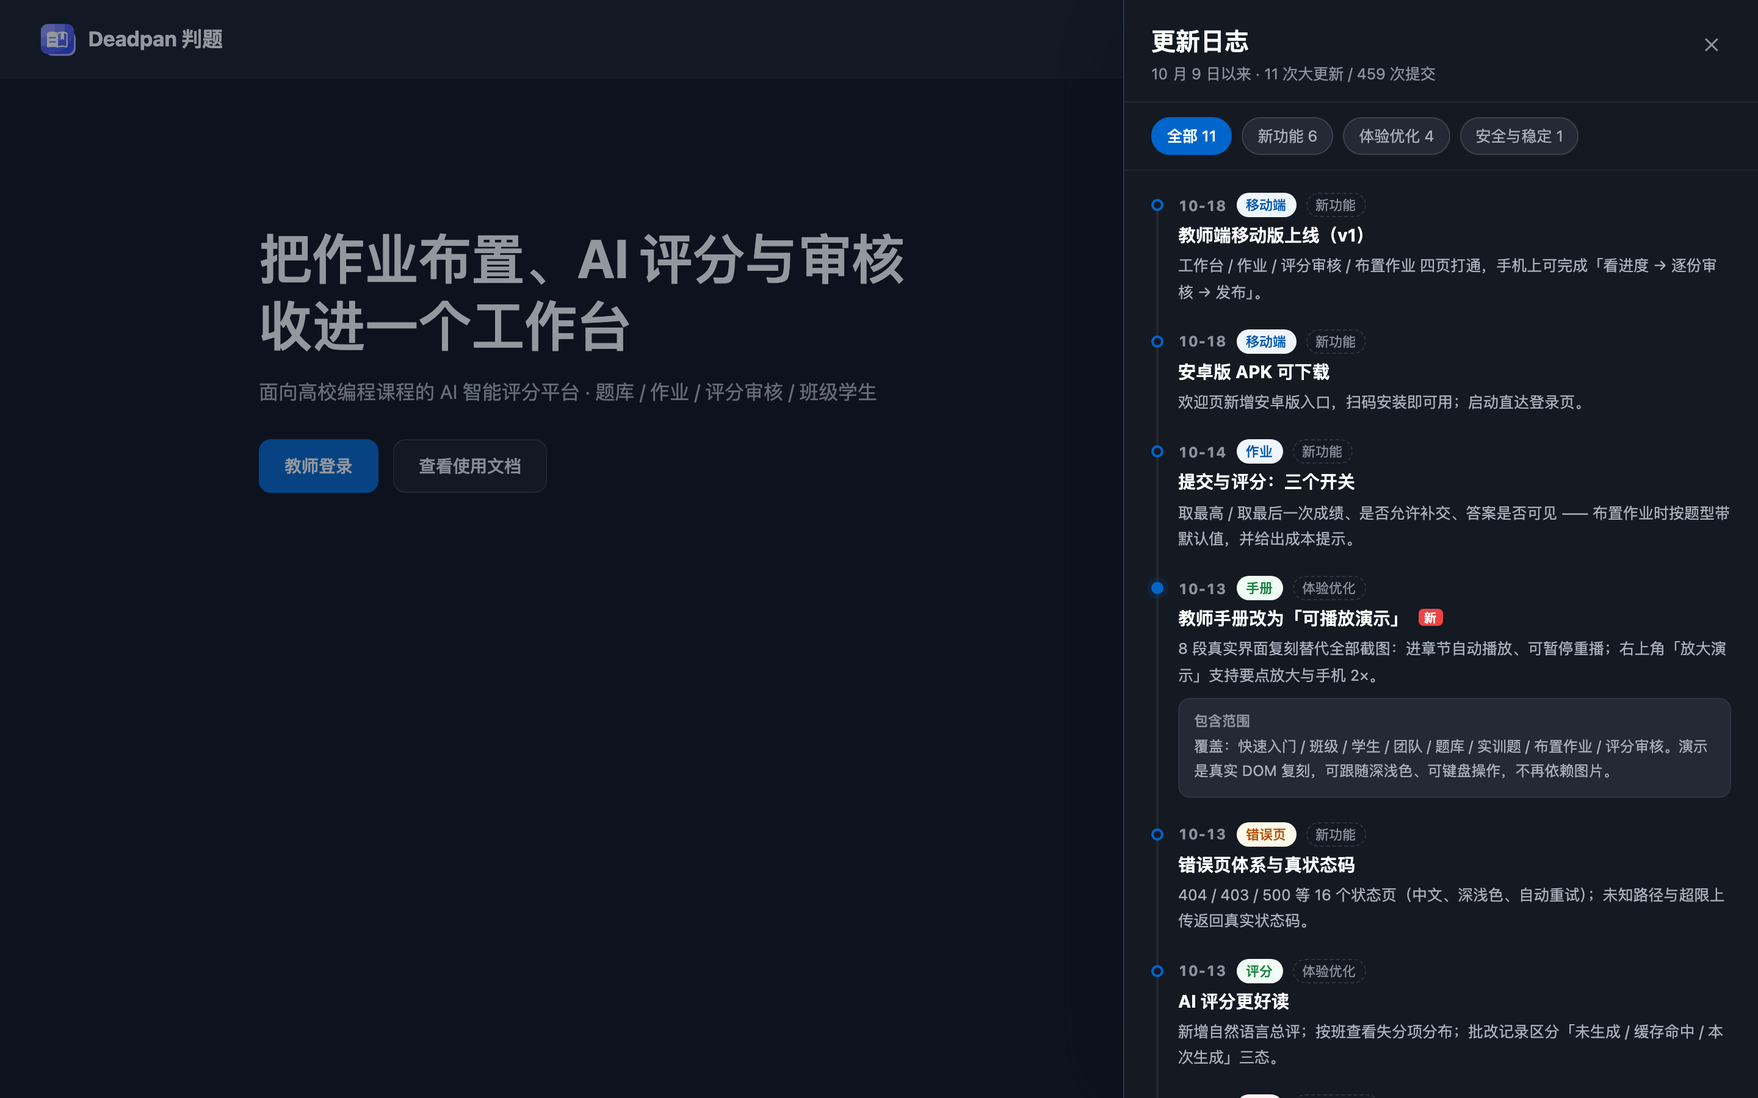
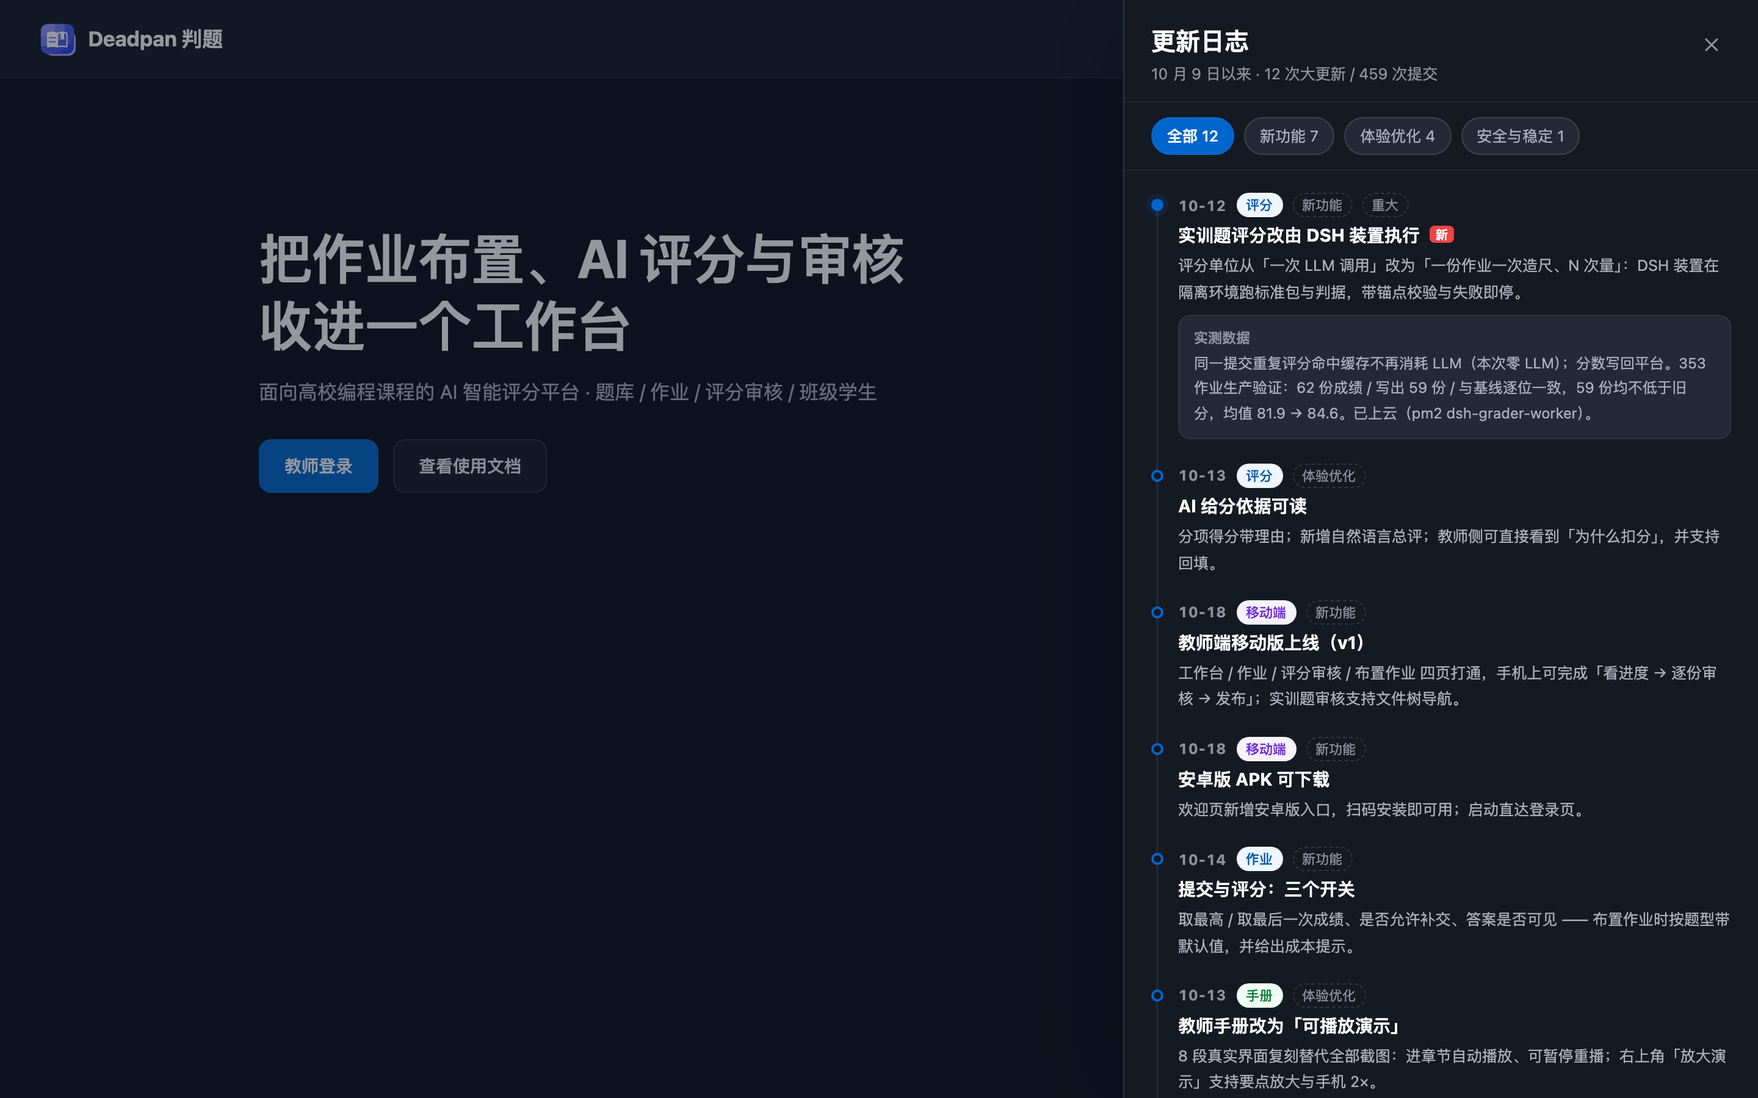
docs(ui): 更新日志补入 DSH 装置评分（第一版遗漏，用户指出后复查）\n\n新增置顶条目：实训题评分改由 DSH 装置执行 —— 评分单位从「一次 LLM 调用」改为「一份作业一次造尺、\nN 次量」，隔离环境跑标准包与判据、锚点校验、失败即停；重复评分命中缓存不再消耗 LLM，分数写回平台。\n实测数字（来自 11b2486/0689224/9d8c6fd）：353 作业 62 份成绩 / 写出 59 份 / 与基线逐位一致 /\n59 份均不低于旧分 / 均值 81.9→84.6；已上云（pm2 dsh-grader-worker）。\n同时补充「AI 给分依据可读」条目，总数

Changed region(s): [[0.6562, 0.0622, 1.0, 1.0]]

diff --git a/docs/ui-redesign/changelog/mock-dark.html b/docs/ui-redesign/changelog/mock-dark.html
@@ -491,6 +491,7 @@ body { margin: 0; font-family: -apple-system, BlinkMacSystemFont, "PingFang SC",
 .pill--ok { background: #f0fdf4; color: #15803d; }
 .pill--warn { background: #fffbeb; color: #b45309; }
 .pill--danger { background: #fef2f2; color: #b91c1c; }
+.pill--purple { background: #f5f3ff; color: #6d28d9; }
 .tag { font-size: 11px; color: var(--text-tertiary); border: 1px dashed var(--border-default); border-radius: 999px; padding: 1px 7px; }
 .new { margin-left: 8px; font-size: 10px; font-weight: 700; color: #fff; background: #ef4444; border-radius: 4px; padding: 1px 5px; vertical-align: 2px; }
 .item h4 { margin: 0 0 4px; font-size: 14.5px; color: var(--text-strong); line-height: 1.4; }
@@ -527,22 +528,36 @@ body { margin: 0; font-family: -apple-system, BlinkMacSystemFont, "PingFang SC",
   <div class="mask"></div>
   <aside class="drawer">
     <header class="dhead">
-      <div><h3>更新日志</h3><p>10 月 9 日以来 · 11 次大更新 / 459 次提交</p></div>
+      <div><h3>更新日志</h3><p>10 月 9 日以来 · 12 次大更新 / 459 次提交</p></div>
       <button class="close" aria-label="关闭">✕</button>
     </header>
-    <div class="filters"><span class="chip on">全部 11</span><span class="chip">新功能 6</span><span class="chip">体验优化 4</span><span class="chip">安全与稳定 1</span></div>
+    <div class="filters"><span class="chip on">全部 12</span><span class="chip">新功能 7</span><span class="chip">体验优化 4</span><span class="chip">安全与稳定 1</span></div>
     <div class="listwrap">
       <ol class="timeline">
+    <li class="item is-hot">
+      <span class="dot"></span>
+      <div class="meta"><b>10-12</b><span class="pill pill--brand">评分</span><span class="tag">新功能</span><span class="tag">重大</span></div>
+      <h4>实训题评分改由 DSH 装置执行<span class="new">新</span></h4>
+      <p>评分单位从「一次 LLM 调用」改为「一份作业一次造尺、N 次量」：DSH 装置在隔离环境跑标准包与判据，带锚点校验与失败即停。</p>
+      <div class="detail"><b>实测数据</b><p>同一提交重复评分命中缓存不再消耗 LLM（本次零 LLM）；分数写回平台。353 作业生产验证：62 份成绩 / 写出 59 份 / 与基线逐位一致，59 份均不低于旧分，均值 81.9 → 84.6。已上云（pm2 dsh-grader-worker）。</p></div>
+    </li>
     <li class="item">
       <span class="dot"></span>
-      <div class="meta"><b>10-18</b><span class="pill pill--brand">移动端</span><span class="tag">新功能</span></div>
-      <h4>教师端移动版上线（v1）</h4>
-      <p>工作台 / 作业 / 评分审核 / 布置作业 四页打通，手机上可完成「看进度 → 逐份审核 → 发布」。</p>
+      <div class="meta"><b>10-13</b><span class="pill pill--brand">评分</span><span class="tag">体验优化</span></div>
+      <h4>AI 给分依据可读</h4>
+      <p>分项得分带理由；新增自然语言总评；教师侧可直接看到「为什么扣分」，并支持回填。</p>
       
     </li>
     <li class="item">
       <span class="dot"></span>
-      <div class="meta"><b>10-18</b><span class="pill pill--brand">移动端</span><span class="tag">新功能</span></div>
+      <div class="meta"><b>10-18</b><span class="pill pill--purple">移动端</span><span class="tag">新功能</span></div>
+      <h4>教师端移动版上线（v1）</h4>
+      <p>工作台 / 作业 / 评分审核 / 布置作业 四页打通，手机上可完成「看进度 → 逐份审核 → 发布」；实训题审核支持文件树导航。</p>
+      
+    </li>
+    <li class="item">
+      <span class="dot"></span>
+      <div class="meta"><b>10-18</b><span class="pill pill--purple">移动端</span><span class="tag">新功能</span></div>
       <h4>安卓版 APK 可下载</h4>
       <p>欢迎页新增安卓版入口，扫码安装即可用；启动直达登录页。</p>
       
@@ -554,25 +569,18 @@ body { margin: 0; font-family: -apple-system, BlinkMacSystemFont, "PingFang SC",
       <p>取最高 / 取最后一次成绩、是否允许补交、答案是否可见 —— 布置作业时按题型带默认值，并给出成本提示。</p>
       
     </li>
-    <li class="item is-hot">
+    <li class="item">
       <span class="dot"></span>
       <div class="meta"><b>10-13</b><span class="pill pill--ok">手册</span><span class="tag">体验优化</span></div>
-      <h4>教师手册改为「可播放演示」<span class="new">新</span></h4>
+      <h4>教师手册改为「可播放演示」</h4>
       <p>8 段真实界面复刻替代全部截图：进章节自动播放、可暂停重播；右上角「放大演示」支持要点放大与手机 2×。</p>
-      <div class="detail"><b>包含范围</b><p>覆盖：快速入门 / 班级 / 学生 / 团队 / 题库 / 实训题 / 布置作业 / 评分审核。演示是真实 DOM 复刻，可跟随深浅色、可键盘操作，不再依赖图片。</p></div>
+      
     </li>
     <li class="item">
       <span class="dot"></span>
       <div class="meta"><b>10-13</b><span class="pill pill--warn">错误页</span><span class="tag">新功能</span></div>
       <h4>错误页体系与真状态码</h4>
       <p>404 / 403 / 500 等 16 个状态页（中文、深浅色、自动重试）；未知路径与超限上传返回真实状态码。</p>
-      
-    </li>
-    <li class="item">
-      <span class="dot"></span>
-      <div class="meta"><b>10-13</b><span class="pill pill--ok">评分</span><span class="tag">体验优化</span></div>
-      <h4>AI 评分更好读</h4>
-      <p>新增自然语言总评；按班查看失分项分布；批改记录区分「未生成 / 缓存命中 / 本次生成」三态。</p>
       
     </li>
     <li class="item">

diff --git a/docs/ui-redesign/changelog/mock-light.html b/docs/ui-redesign/changelog/mock-light.html
@@ -491,6 +491,7 @@ body { margin: 0; font-family: -apple-system, BlinkMacSystemFont, "PingFang SC",
 .pill--ok { background: #f0fdf4; color: #15803d; }
 .pill--warn { background: #fffbeb; color: #b45309; }
 .pill--danger { background: #fef2f2; color: #b91c1c; }
+.pill--purple { background: #f5f3ff; color: #6d28d9; }
 .tag { font-size: 11px; color: var(--text-tertiary); border: 1px dashed var(--border-default); border-radius: 999px; padding: 1px 7px; }
 .new { margin-left: 8px; font-size: 10px; font-weight: 700; color: #fff; background: #ef4444; border-radius: 4px; padding: 1px 5px; vertical-align: 2px; }
 .item h4 { margin: 0 0 4px; font-size: 14.5px; color: var(--text-strong); line-height: 1.4; }
@@ -527,22 +528,36 @@ body { margin: 0; font-family: -apple-system, BlinkMacSystemFont, "PingFang SC",
   <div class="mask"></div>
   <aside class="drawer">
     <header class="dhead">
-      <div><h3>更新日志</h3><p>10 月 9 日以来 · 11 次大更新 / 459 次提交</p></div>
+      <div><h3>更新日志</h3><p>10 月 9 日以来 · 12 次大更新 / 459 次提交</p></div>
       <button class="close" aria-label="关闭">✕</button>
     </header>
-    <div class="filters"><span class="chip on">全部 11</span><span class="chip">新功能 6</span><span class="chip">体验优化 4</span><span class="chip">安全与稳定 1</span></div>
+    <div class="filters"><span class="chip on">全部 12</span><span class="chip">新功能 7</span><span class="chip">体验优化 4</span><span class="chip">安全与稳定 1</span></div>
     <div class="listwrap">
       <ol class="timeline">
+    <li class="item is-hot">
+      <span class="dot"></span>
+      <div class="meta"><b>10-12</b><span class="pill pill--brand">评分</span><span class="tag">新功能</span><span class="tag">重大</span></div>
+      <h4>实训题评分改由 DSH 装置执行<span class="new">新</span></h4>
+      <p>评分单位从「一次 LLM 调用」改为「一份作业一次造尺、N 次量」：DSH 装置在隔离环境跑标准包与判据，带锚点校验与失败即停。</p>
+      <div class="detail"><b>实测数据</b><p>同一提交重复评分命中缓存不再消耗 LLM（本次零 LLM）；分数写回平台。353 作业生产验证：62 份成绩 / 写出 59 份 / 与基线逐位一致，59 份均不低于旧分，均值 81.9 → 84.6。已上云（pm2 dsh-grader-worker）。</p></div>
+    </li>
     <li class="item">
       <span class="dot"></span>
-      <div class="meta"><b>10-18</b><span class="pill pill--brand">移动端</span><span class="tag">新功能</span></div>
-      <h4>教师端移动版上线（v1）</h4>
-      <p>工作台 / 作业 / 评分审核 / 布置作业 四页打通，手机上可完成「看进度 → 逐份审核 → 发布」。</p>
+      <div class="meta"><b>10-13</b><span class="pill pill--brand">评分</span><span class="tag">体验优化</span></div>
+      <h4>AI 给分依据可读</h4>
+      <p>分项得分带理由；新增自然语言总评；教师侧可直接看到「为什么扣分」，并支持回填。</p>
       
     </li>
     <li class="item">
       <span class="dot"></span>
-      <div class="meta"><b>10-18</b><span class="pill pill--brand">移动端</span><span class="tag">新功能</span></div>
+      <div class="meta"><b>10-18</b><span class="pill pill--purple">移动端</span><span class="tag">新功能</span></div>
+      <h4>教师端移动版上线（v1）</h4>
+      <p>工作台 / 作业 / 评分审核 / 布置作业 四页打通，手机上可完成「看进度 → 逐份审核 → 发布」；实训题审核支持文件树导航。</p>
+      
+    </li>
+    <li class="item">
+      <span class="dot"></span>
+      <div class="meta"><b>10-18</b><span class="pill pill--purple">移动端</span><span class="tag">新功能</span></div>
       <h4>安卓版 APK 可下载</h4>
       <p>欢迎页新增安卓版入口，扫码安装即可用；启动直达登录页。</p>
       
@@ -554,25 +569,18 @@ body { margin: 0; font-family: -apple-system, BlinkMacSystemFont, "PingFang SC",
       <p>取最高 / 取最后一次成绩、是否允许补交、答案是否可见 —— 布置作业时按题型带默认值，并给出成本提示。</p>
       
     </li>
-    <li class="item is-hot">
+    <li class="item">
       <span class="dot"></span>
       <div class="meta"><b>10-13</b><span class="pill pill--ok">手册</span><span class="tag">体验优化</span></div>
-      <h4>教师手册改为「可播放演示」<span class="new">新</span></h4>
+      <h4>教师手册改为「可播放演示」</h4>
       <p>8 段真实界面复刻替代全部截图：进章节自动播放、可暂停重播；右上角「放大演示」支持要点放大与手机 2×。</p>
-      <div class="detail"><b>包含范围</b><p>覆盖：快速入门 / 班级 / 学生 / 团队 / 题库 / 实训题 / 布置作业 / 评分审核。演示是真实 DOM 复刻，可跟随深浅色、可键盘操作，不再依赖图片。</p></div>
+      
     </li>
     <li class="item">
       <span class="dot"></span>
       <div class="meta"><b>10-13</b><span class="pill pill--warn">错误页</span><span class="tag">新功能</span></div>
       <h4>错误页体系与真状态码</h4>
       <p>404 / 403 / 500 等 16 个状态页（中文、深浅色、自动重试）；未知路径与超限上传返回真实状态码。</p>
-      
-    </li>
-    <li class="item">
-      <span class="dot"></span>
-      <div class="meta"><b>10-13</b><span class="pill pill--ok">评分</span><span class="tag">体验优化</span></div>
-      <h4>AI 评分更好读</h4>
-      <p>新增自然语言总评；按班查看失分项分布；批改记录区分「未生成 / 缓存命中 / 本次生成」三态。</p>
       
     </li>
     <li class="item">

diff --git a/docs/ui-redesign/changelog/mock-mobile.html b/docs/ui-redesign/changelog/mock-mobile.html
@@ -491,6 +491,7 @@ body { margin: 0; font-family: -apple-system, BlinkMacSystemFont, "PingFang SC",
 .pill--ok { background: #f0fdf4; color: #15803d; }
 .pill--warn { background: #fffbeb; color: #b45309; }
 .pill--danger { background: #fef2f2; color: #b91c1c; }
+.pill--purple { background: #f5f3ff; color: #6d28d9; }
 .tag { font-size: 11px; color: var(--text-tertiary); border: 1px dashed var(--border-default); border-radius: 999px; padding: 1px 7px; }
 .new { margin-left: 8px; font-size: 10px; font-weight: 700; color: #fff; background: #ef4444; border-radius: 4px; padding: 1px 5px; vertical-align: 2px; }
 .item h4 { margin: 0 0 4px; font-size: 14.5px; color: var(--text-strong); line-height: 1.4; }
@@ -516,20 +517,34 @@ body { margin: 0; font-family: -apple-system, BlinkMacSystemFont, "PingFang SC",
 <body>
   <div class="phone">
     <div class="sbar"><b>9:41</b><span class="sicons">●●● <i class="bat"></i></span></div>
-    <header class="mhead"><button class="back" aria-label="返回">‹</button><h3>更新日志</h3><span class="mcount">11 条</span></header>
+    <header class="mhead"><button class="back" aria-label="返回">‹</button><h3>更新日志</h3><span class="mcount">12 条</span></header>
     <div class="mfilters"><span class="chip on">全部</span><span class="chip">新功能</span><span class="chip">体验优化</span><span class="chip">安全</span></div>
     <div class="mlist">
       <ol class="timeline">
+    <li class="item is-hot">
+      <span class="dot"></span>
+      <div class="meta"><b>10-12</b><span class="pill pill--brand">评分</span><span class="tag">新功能</span><span class="tag">重大</span></div>
+      <h4>实训题评分改由 DSH 装置执行<span class="new">新</span></h4>
+      <p>评分单位从「一次 LLM 调用」改为「一份作业一次造尺、N 次量」：DSH 装置在隔离环境跑标准包与判据，带锚点校验与失败即停。</p>
+      <div class="detail"><b>实测数据</b><p>同一提交重复评分命中缓存不再消耗 LLM（本次零 LLM）；分数写回平台。353 作业生产验证：62 份成绩 / 写出 59 份 / 与基线逐位一致，59 份均不低于旧分，均值 81.9 → 84.6。已上云（pm2 dsh-grader-worker）。</p></div>
+    </li>
     <li class="item">
       <span class="dot"></span>
-      <div class="meta"><b>10-18</b><span class="pill pill--brand">移动端</span><span class="tag">新功能</span></div>
-      <h4>教师端移动版上线（v1）</h4>
-      <p>工作台 / 作业 / 评分审核 / 布置作业 四页打通，手机上可完成「看进度 → 逐份审核 → 发布」。</p>
+      <div class="meta"><b>10-13</b><span class="pill pill--brand">评分</span><span class="tag">体验优化</span></div>
+      <h4>AI 给分依据可读</h4>
+      <p>分项得分带理由；新增自然语言总评；教师侧可直接看到「为什么扣分」，并支持回填。</p>
       
     </li>
     <li class="item">
       <span class="dot"></span>
-      <div class="meta"><b>10-18</b><span class="pill pill--brand">移动端</span><span class="tag">新功能</span></div>
+      <div class="meta"><b>10-18</b><span class="pill pill--purple">移动端</span><span class="tag">新功能</span></div>
+      <h4>教师端移动版上线（v1）</h4>
+      <p>工作台 / 作业 / 评分审核 / 布置作业 四页打通，手机上可完成「看进度 → 逐份审核 → 发布」；实训题审核支持文件树导航。</p>
+      
+    </li>
+    <li class="item">
+      <span class="dot"></span>
+      <div class="meta"><b>10-18</b><span class="pill pill--purple">移动端</span><span class="tag">新功能</span></div>
       <h4>安卓版 APK 可下载</h4>
       <p>欢迎页新增安卓版入口，扫码安装即可用；启动直达登录页。</p>
       
@@ -541,25 +556,18 @@ body { margin: 0; font-family: -apple-system, BlinkMacSystemFont, "PingFang SC",
       <p>取最高 / 取最后一次成绩、是否允许补交、答案是否可见 —— 布置作业时按题型带默认值，并给出成本提示。</p>
       
     </li>
-    <li class="item is-hot">
+    <li class="item">
       <span class="dot"></span>
       <div class="meta"><b>10-13</b><span class="pill pill--ok">手册</span><span class="tag">体验优化</span></div>
-      <h4>教师手册改为「可播放演示」<span class="new">新</span></h4>
+      <h4>教师手册改为「可播放演示」</h4>
       <p>8 段真实界面复刻替代全部截图：进章节自动播放、可暂停重播；右上角「放大演示」支持要点放大与手机 2×。</p>
-      <div class="detail"><b>包含范围</b><p>覆盖：快速入门 / 班级 / 学生 / 团队 / 题库 / 实训题 / 布置作业 / 评分审核。演示是真实 DOM 复刻，可跟随深浅色、可键盘操作，不再依赖图片。</p></div>
+      
     </li>
     <li class="item">
       <span class="dot"></span>
       <div class="meta"><b>10-13</b><span class="pill pill--warn">错误页</span><span class="tag">新功能</span></div>
       <h4>错误页体系与真状态码</h4>
       <p>404 / 403 / 500 等 16 个状态页（中文、深浅色、自动重试）；未知路径与超限上传返回真实状态码。</p>
-      
-    </li>
-    <li class="item">
-      <span class="dot"></span>
-      <div class="meta"><b>10-13</b><span class="pill pill--ok">评分</span><span class="tag">体验优化</span></div>
-      <h4>AI 评分更好读</h4>
-      <p>新增自然语言总评；按班查看失分项分布；批改记录区分「未生成 / 缓存命中 / 本次生成」三态。</p>
       
     </li>
     <li class="item">

diff --git a/docs/ui-redesign/changelog/README.md b/docs/ui-redesign/changelog/README.md
@@ -4,6 +4,8 @@
 
 ![总览](overview.png)
 
+> 共 12 条；影响最大的「实训题评分改由 DSH 装置执行」置顶并默认展开「实测数据」。
+
 ## 一、设计简报（Phase 1）
 
 | 项 | 内容 |
@@ -25,16 +27,17 @@
 
 ## 三、内容来源与口径
 
-数据：`git log --since=2026-10-09`（实测 **459 个提交**）→ 人工收敛为 **11 条大更新**：
+数据：`git log --since=2026-10-09`（实测 **459 个提交**）→ 人工收敛为 **12 条大更新**：
 
 | 日期 | 分类 | 更新 |
 |---|---|---|
-| 10-18 | 移动端 | 教师端移动版 v1（工作台/作业/审核/布置） |
+| 10-12 | 评分 | **实训题评分改由 DSH 装置执行**（一份作业一次造尺、N 次量；353 生产验证 62 份成绩、均值 81.9→84.6） |
+| 10-13 | 评分 | AI 给分依据可读（分项理由 + 自然语言总评 + 可回填） |
+| 10-18 | 移动端 | 教师端移动版 v1（工作台/作业/审核/布置；实训题支持文件树导航） |
 | 10-18 | 移动端 | 安卓版 APK 可下载（欢迎页入口） |
 | 10-14 | 作业 | 提交与评分三开关（取最高/取最后、允许补交、答案可见性） |
 | 10-13 | 手册 | 教师手册改为可播放演示（8 段 · 替代全部截图） |
 | 10-13 | 错误页 | 错误页体系与真状态码（16 个状态页） |
-| 10-13 | 评分 | AI 自然语言总评 + 按班失分项分布 + 批改记录三态 |
 | 10-13 | 安全 | 改密即失效 / JWT 快速失败 / 上传 413 / CSP 观察模式 |
 | 10-12 | 作业 | 布置作业改为一页式（单选/人数/默认时间/草稿） |
 | 10-12 | 列表 | 列表样式统一 v2（11 个列表、两行式主列） |
@@ -42,6 +45,23 @@
 | 10-11 | 欢迎页 | 欢迎页重构 + 站点二维码 |
 
 **筛选规则（给以后自动化用）**：只收 `feat` / `perf` 中「用户可感知」的变更；`docs`/`test`/`chore`/`refactor` 不进更新日志；同主题多次提交合并为一条。
+
+## 三之二、复核记录（第一版漏了 DSH，已补）
+
+用户指出「实训题评分使用 DSH 是重大更新」→ 复查 git 记录后确认，这是一条被 `docs(dsh)` 类提交淹没的主线：
+
+| 日期 | 提交 | 里程碑 |
+|---|---|---|
+| 10-11 | `a6ba165a` | DSH 隔离实跑装置 + 确定性检查器执行器首次入库 |
+| 10-11 | `f906d40e` | 作业级批改方案：评分单位改为「一份作业」，一次造尺 62 次量 |
+| 10-12 | `f768835f` | R3.5 作业级「一次造尺、N 次量」落地 |
+| 10-12 | `3fc705c` | 上云：DSH npm 包装 + pm2 `dsh-grader-worker` |
+| 10-12 | `1f22114` | 353 端到端归档：62 份成绩同码同分 + 与基线对照 |
+| 10-12 | `66faf3e` | 生产闭环实证：job 6 done / written=59 / 分数逐位不变 / **本次零 LLM** |
+| 10-12 | `fb14402` | 旧分 vs 装置分对照：59/59 不低于旧分，均值 81.9 → 84.6 |
+| 10-14 | `730d02c` | 尺路径跑通：造尺 + 装置评分 + 判据复用命中 |
+
+**文案口径**：面向用户不写「DSH 是什么」（对外是内部装置），只写「评分单位改为一份作业、一次造尺 N 次量、重复评分不重复消耗、分数写回平台」+ 生产验证数字。
 
 ## 四、实现方案（待拍板后做）
 
